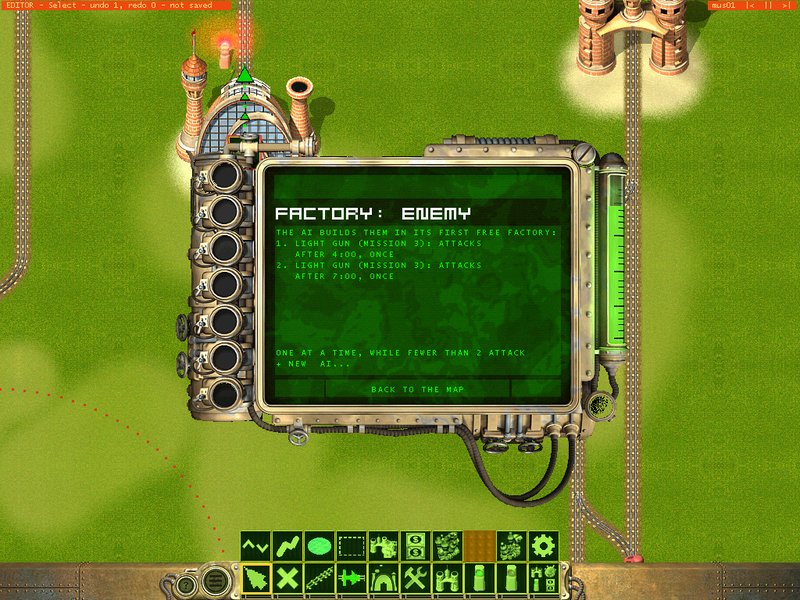
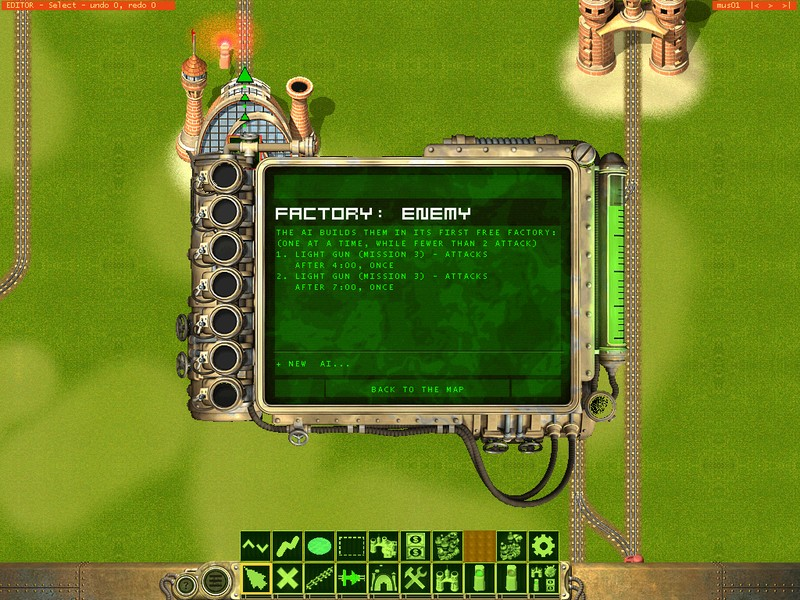
Factory panel: the groove line under a list drawn after the texts' lock; the guides' plan picture of the new layout
The line's two fills are Direct3D: drawn among the queued texts they made the texts' one lock wait for the
GPU, +1.5-2 ms a frame on the plan list and the authors' trains at 1920 x 1080 (the profiler, rig runs).
docs/img/factory-plan-en.jpg and -pl.jpg retaken from the new layout (sandbox, the enemy's plan).

diff --git a/src/LocoFix/editor_factory.cpp b/src/LocoFix/editor_factory.cpp
@@ -205,11 +205,16 @@ void note(int k, int rows, const std::string& text) {
     for (int i = 0; i < rows; ++i) put(left(), row_y(k + i), fit(lines[i], left(), row_y(k + i)));
 }
 
-// The groove between a list and its actions.
-void line_under(int k) {
-    const float y = row_y(k);
-    edit_fill(left() - 2, y - 1, right_end() + 2, y, LINE_DARK);
-    edit_fill(left() - 2, y, right_end() + 2, y + 1, LINE_LIGHT);
+// The groove between a list and its actions: drawn after the rows' texts are written (factory_draw), as a
+// Direct3D fill among the queued texts would make their one lock wait for the GPU (+1.5-2 ms a frame at
+// 1920 x 1080, docs/dev/editor-ui.md "The frame and the profiler").
+float g_line_y = 0;   // 0: none this frame
+void line_under(int k) { g_line_y = row_y(k); }
+void draw_line_under() {
+    if (!g_line_y) return;
+    edit_fill(left() - 2, g_line_y - 1, right_end() + 2, g_line_y, LINE_DARK);
+    edit_fill(left() - 2, g_line_y, right_end() + 2, g_line_y + 1, LINE_LIGHT);
+    g_line_y = 0;
 }
 
 // A list's pages at the right end of the actions' row: < n/m >.
@@ -892,6 +897,7 @@ void factory_draw(POINT m) {
     }
     // the click-and-hold strip of a car or + CAR held down: over everything of the panel
     edit_texts_flush();   // the strip comes over the rows' texts (they are queued: editor_edit.cpp)
+    draw_line_under();
     const int under = g_rows.draw_hold(ICON, g_px + LEFT - 20, g_px + LEFT + WIDTH * g_cw + 20, [](int vid, float cx, float cy, bool lit) {
         const int frame = palette_icon(vid);
         if (frame >= 0) edit_draw_picture(VID_ICONS, frame, cx, cy, STEP - 1);
